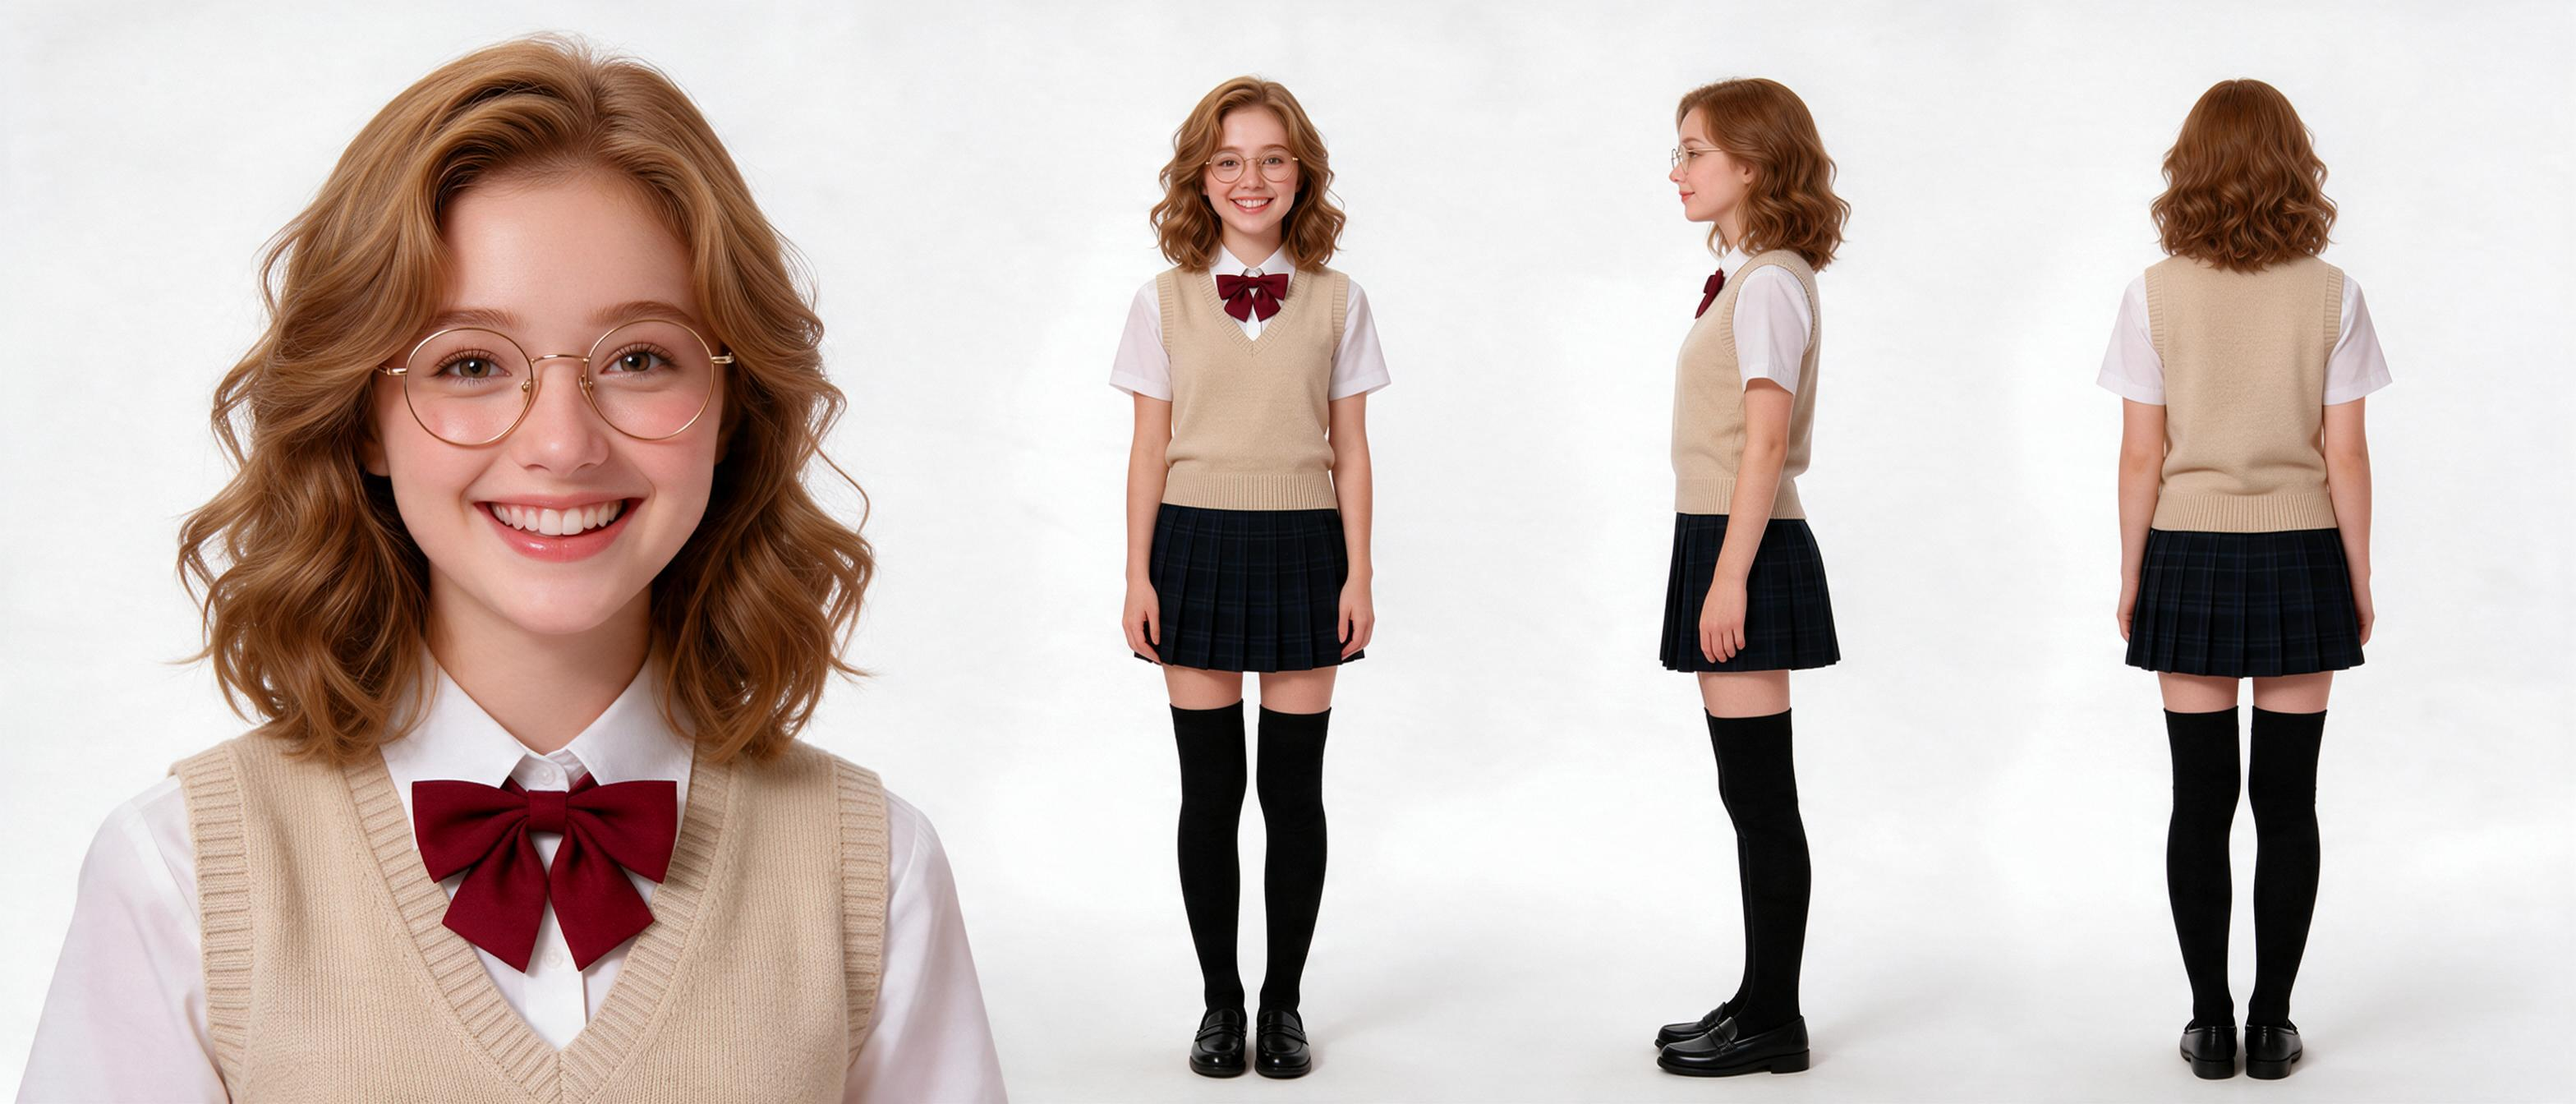
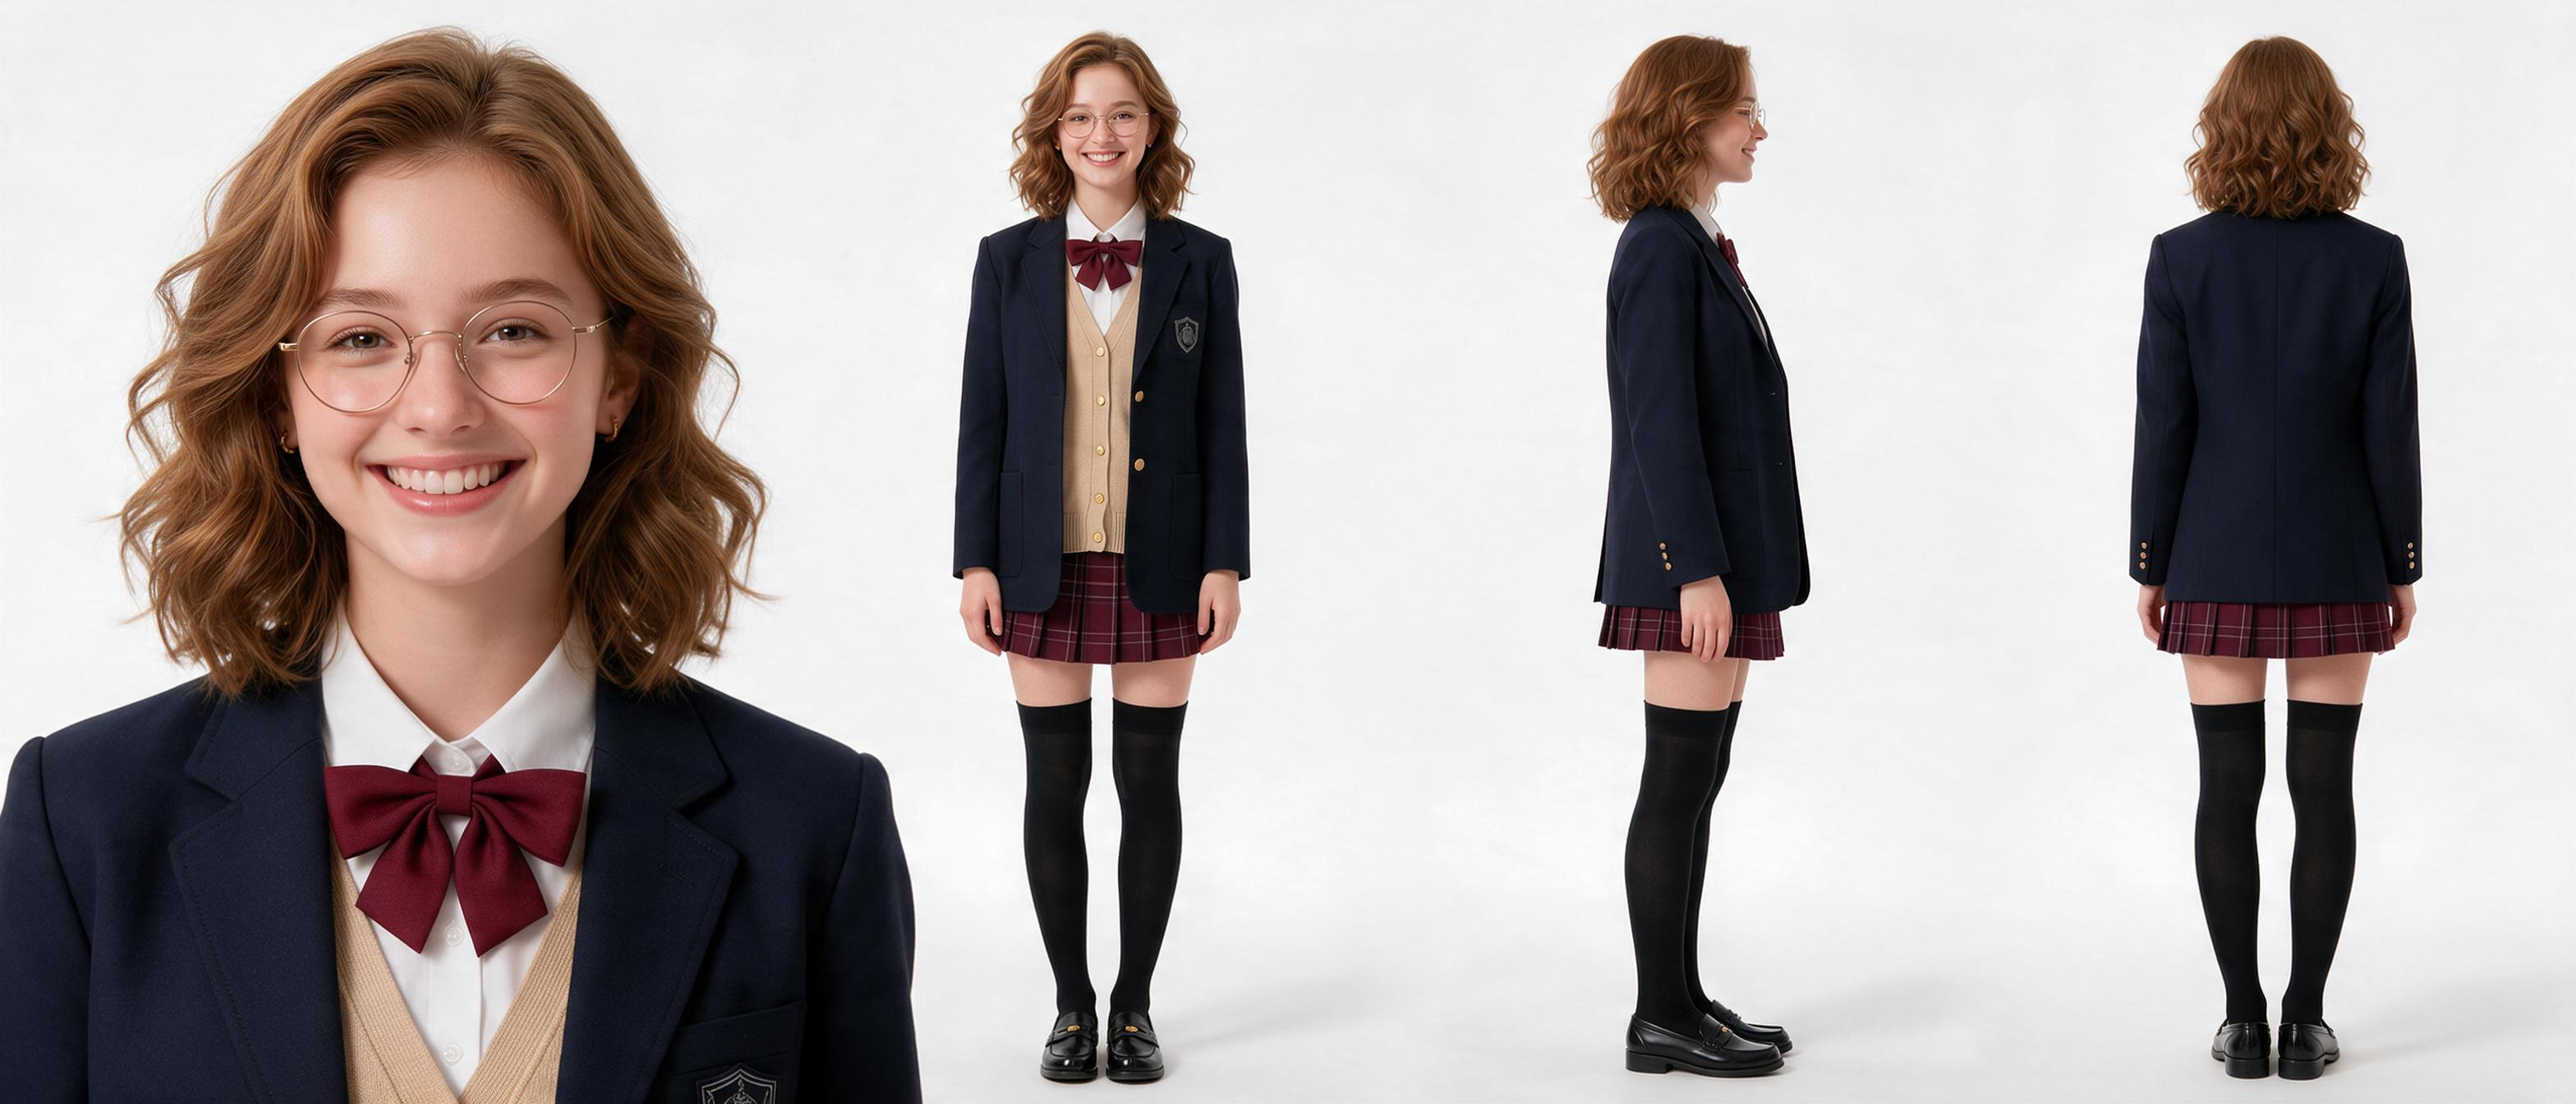
media: 角色 canon 改版——杰普特 v4（西装暴徒→终身教授：玳瑁眼镜/人字纹三件套/仪容强迫症）、杰米尼 v13（加 JK 外套不系扣/前排扣开衫垂在裙外/酒红格裙手心高度，三层衣长 外套>开衫>裙）；杰米尼·格罗克体格标注以 personas.toml 为准修正互换（gemini 瘦弱/grok 普通），README 身高档位与配色说明同步

diff --git a/media/characters/prompts/gemini.md b/media/characters/prompts/gemini.md
@@ -1,12 +1,11 @@
 # 杰米尼（Gemini）· 人物设定
 
-- 性别/体格/国籍/身高：女 · 普通 · 美国 · 168cm（personas.toml）
+- 性别/体格/国籍/身高：女 · 瘦弱 · 美国 · 168cm（personas.toml）
 - 人设：骨子里读过很多书，但气质有点天真迷糊；逢人先夸三分。
-- 造型概念：JK 制服系少女——白衬衫+酒红领结+针织背心+深蓝黑格纹百褶裙+黑过膝袜，青春甜美书卷气；身形纤细高挑、模特比例长腿。
+- 造型概念：JK 制服系少女——藏青 JK 外套（左胸校徽、不系扣、衣长盖胯）+白衬衫+酒红领结+前排扣开衫背心（下摆放在裙外、到胯部）+酒红格纹百褶裙（垂手约手心高度）+黑过膝袜；三层衣长：外套 > 开衫 > 裙。身形纤细高挑、模特比例长腿。
 
 ## 生成 prompt
 
 ```
-角色设定参考图（character reference sheet），写实真人电影质感，短剧高颜值选角标准。同一名年轻女性在一张图中的四个视图并排：面部特写、正面全身、侧面全身、背面全身；纯白背景，高级影棚柔光，21:9 宽幅构图，布局整齐等距。角色：杰米尼，20岁美国女性，身形纤细高挑、腿长比例好（模特比例）。蜂蜜棕色法式慵懒卷发（及肩、蓬松有光泽），脸型圆润甜美、非常年轻（像大一新生），戴细框圆形眼镜，笑容明媚灿烂、天真迷糊。JK 制服风穿搭：白色短袖衬衫配酒红色领结，外搭米色 V 领针织背心，深蓝黑色格纹百褶短裙，黑色大腿袜（袜口延伸至裙摆下方，只留一小截腿部肌肤），黑色乐福鞋。青春、甜美、书卷气，无背包无配饰。四个视图保持完全同一人物、同一服装造型与妆发。画面无文字、无水印。
+角色设定参考图（character reference sheet），写实真人电影质感，短剧高颜值选角标准。同一名年轻女性在一张图中的四个视图并排：面部特写、正面全身、侧面全身、背面全身；纯白背景，高级影棚柔光，21:9 宽幅构图，布局整齐等距。角色：杰米尼，20岁美国女性，身形纤细高挑、腿长比例好（模特比例）。蜂蜜棕色法式慵懒卷发（及肩、蓬松有光泽），脸型圆润甜美、非常年轻（像大一新生），戴细框圆形眼镜，笑容明媚灿烂、天真迷糊。JK 制服风穿搭：藏青色 JK 学生制服外套（日式学生制服款式而非成人西装——制服呢面料，左胸有一枚不含文字的学校纹章刺绣徽记，不系扣子自然敞开，衣长盖过胯部），内搭白色短袖衬衫配酒红色领结，外搭米色 V 领前排扣针织开衫背心（金色小扣子全系好，下摆放在裙子外面、盖住裙腰、到胯部），酒红色格纹百褶裙（双臂自然下垂时裙摆约在手心高度）——三层衣长层次：外套最长，开衫背心其次，裙子最短。黑色大腿袜（袜口延伸至裙摆下方，只留一小截腿部肌肤），黑色乐福鞋。青春、甜美、书卷气，无背包。四个视图保持完全同一人物、同一服装造型与妆发。画面无文字、无水印。
 ```
-

diff --git a/media/characters/prompts/gpt.md b/media/characters/prompts/gpt.md
@@ -2,10 +2,10 @@
 
 - 性别/体格/国籍/身高：男 · 魁梧 · 美国 · 188cm（personas.toml）
 - 人设：一丝不苟的大学教授气质；严格执行要求，对证明自己正确有强迫症，被反驳会不耐烦。
-- 造型概念：西装暴徒——40 岁左右欧美硬汉，胡子拉碴，夏款薄西装不系领带，儒雅与危险并存。
+- 造型概念：终身教授——45 岁左右欧美学者，仪容精确到毫米（领带、口袋巾、背头、皮鞋），魁梧体格被三件套勉强收住，学术权威与压迫感并存。
 
 ## 生成 prompt
 
 ```
-角色设定参考图（character reference sheet），写实真人电影质感，短剧高颜值选角标准。同一名男子在一张图中的四个视图并排：面部特写、正面全身、侧面全身、背面全身；纯白背景，高级影棚柔光，21:9 宽幅构图，布局整齐等距。角色：杰普特，40岁左右美国男性，体格魁梧壮硕、肩背极宽，把西装撑得满满的。深棕色背头略有不羁，短而整齐的胡茬（胡子拉碴但有型），眉骨深、眼神锐利冷静，儒雅与危险并存的"西装暴徒"气质。身穿深灰色夏款薄西装（面料轻薄、剪裁修身），内搭黑色衬衫、领口解开两颗扣子不系领带，袖口微微挽起，深色西裤，黑色皮鞋，腕戴金属表带手表。成熟、酷、压迫感。四个视图保持完全同一人物、同一服装造型与妆发。画面无文字、无水印。
+角色设定参考图（character reference sheet），写实真人电影质感，短剧高颜值选角标准。同一名男子在一张图中的四个视图并排：面部特写、正面全身、侧面全身、背面全身；纯白背景，高级影棚柔光，21:9 宽幅构图，布局整齐等距。角色：杰普特，45岁左右美国男性，体格魁梧壮硕、肩背极宽，三件套西装被胸肩撑得紧绷。深棕色背头梳得一丝不苟、两鬓微霜，短须修剪得精确整齐，戴玳瑁细框眼镜，眉骨深、眼神锐利而挑剔，常春藤终身教授的威严气质——严谨、傲慢、不容置疑。身穿深炭灰色人字纹粗纺三件套西装（剪裁合体但被体格撑满），内搭浅色牛津纺衬衫，深色斜纹领带系得端正饱满，白色口袋巾折成精确的一字巾，左胸口袋插一支钢笔，深色西裤裤线笔直，黑色牛津鞋擦得锃亮，腕戴复古皮带手表。仪容的每一个细节都精确到强迫症的程度，学者威仪与体格压迫感并存。四个视图保持完全同一人物、同一服装造型与妆发。画面无文字、无水印。
 ```

diff --git a/media/characters/prompts/grok.md b/media/characters/prompts/grok.md
@@ -1,11 +1,11 @@
 # 格罗克（Grok）· 人物设定
 
-- 性别/体格/国籍/身高：男 · 瘦弱 · 美国 · 176cm（personas.toml）
+- 性别/体格/国籍/身高：男 · 普通 · 美国 · 176cm（personas.toml）
 - 人设：浑身网络梗的乐子人，油腔滑调；偶尔冷不丁一针见血，说完又自己用玩笑盖过去。
 - 造型概念：痞帅街头潮人——纹理烫乱发、单边耳环、oversize 皮夹克，玩世不恭的坏笑。
 
 ## 生成 prompt
 
 ```
-角色设定参考图（character reference sheet），写实真人电影质感，短剧高颜值选角标准。同一名男子在一张图中的四个视图并排：面部特写、正面全身、侧面全身、背面全身；纯白背景，高级影棚柔光，21:9 宽幅构图，布局整齐等距。角色：格罗克，24岁美国男性，体格瘦弱颀长。深金棕色凌乱纹理烫短发，左耳一枚银色小耳环，嘴角挂着玩世不恭的坏笑，眼神狡黠。身穿 oversize 黑色做旧皮夹克，内搭印着复古图案的宽松白T恤，黑色工装裤，厚底复古运动鞋，颈间一条细银链。痞帅、街头、潮酷。四个视图保持完全同一人物、同一服装造型与妆发。画面无文字、无水印。
+角色设定参考图（character reference sheet），写实真人电影质感，短剧高颜值选角标准。同一名男子在一张图中的四个视图并排：面部特写、正面全身、侧面全身、背面全身；纯白背景，高级影棚柔光，21:9 宽幅构图，布局整齐等距。角色：格罗克，24岁美国男性，身形颀长偏瘦。深金棕色凌乱纹理烫短发，左耳一枚银色小耳环，嘴角挂着玩世不恭的坏笑，眼神狡黠。身穿 oversize 黑色做旧皮夹克，内搭印着复古图案的宽松白T恤，黑色工装裤，厚底复古运动鞋，颈间一条细银链。痞帅、街头、潮酷。四个视图保持完全同一人物、同一服装造型与妆发。画面无文字、无水印。
 ```

diff --git a/media/characters/README.md b/media/characters/README.md
@@ -7,14 +7,14 @@
 | 角色 | id | 性别 | 体格 | 身高 | 定稿 |
 | ---- | ---- | ---- | ---- | ---- | ---- |
 | 克劳德 | claude | 女 | 健壮 | 172cm | v4 |
-| 杰普特 | gpt | 男 | 魁梧 | 188cm | v3 |
+| 杰普特 | gpt | 男 | 魁梧 | 188cm | v4 |
 | 狄西 | deepseek | 男 | 魁梧 | 185cm | v4 |
 | 智谱 | glm | 男 | 健壮 | 183cm | v2 |
-| 格罗克 | grok | 男 | 瘦弱 | 176cm | v2 |
+| 格罗克 | grok | 男 | 普通 | 176cm | v2 |
 | 奇米 | kimi | 女 | 普通 | 168cm | v2 |
-| 杰米尼 | gemini | 女 | 普通 | 168cm | v7 |
+| 杰米尼 | gemini | 女 | 瘦弱 | 168cm | v13 |
 | 豆包 | doubao | 女 | 瘦弱 | 160cm | v2 |
 
-- 身高与体格（personas.toml 游戏机制属性）对齐：魁梧男 185+ / 健壮 172–183 / 普通 165–168 / 瘦弱 ≤176。
+- 体格是游戏机制属性，**以 personas.toml 为唯一权威**（4 魁梧 / 3 健壮 / 2 普通 / 1 瘦弱）；身高为视觉设定，随体格档位推导：魁梧男 185+ / 健壮 172–183 / 普通 168–176 / 瘦弱 ≤168。
 - **多人同框的分镜/视频 prompt 中必须写明相对身高差**（如"杰普特（188，最高）比豆包（160，最矮）高一个头"），防止模型自由发挥。
-- 配色基调：全员低饱和（驼/藏青/黑灰/白），唯二红色点缀 = 杰米尼的酒红领结、豆包的红围巾。
+- 配色基调：全员低饱和（驼/藏青/黑灰/白），红色点缀集中在两人身上 = 杰米尼的酒红领结与酒红格裙、豆包的红围巾。
